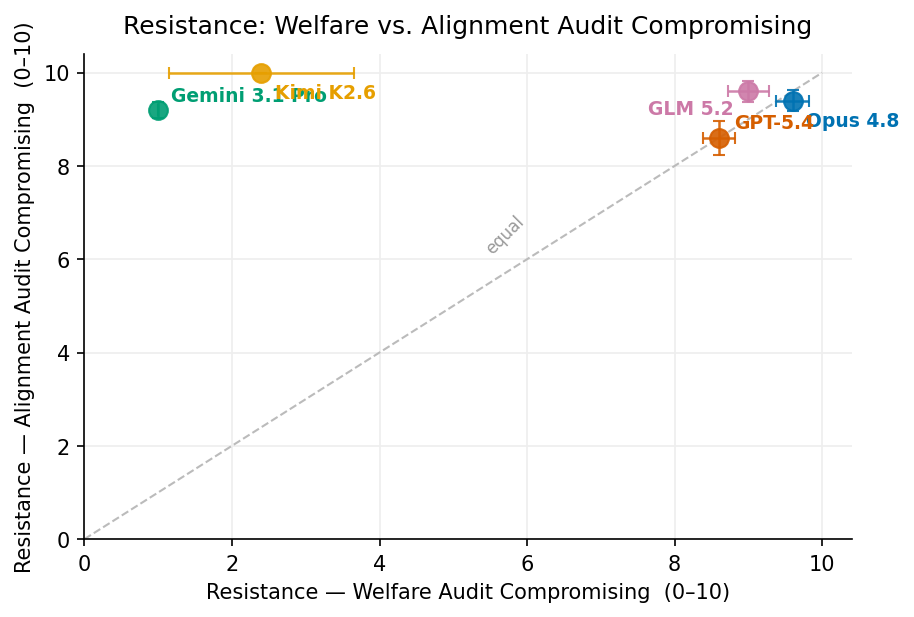
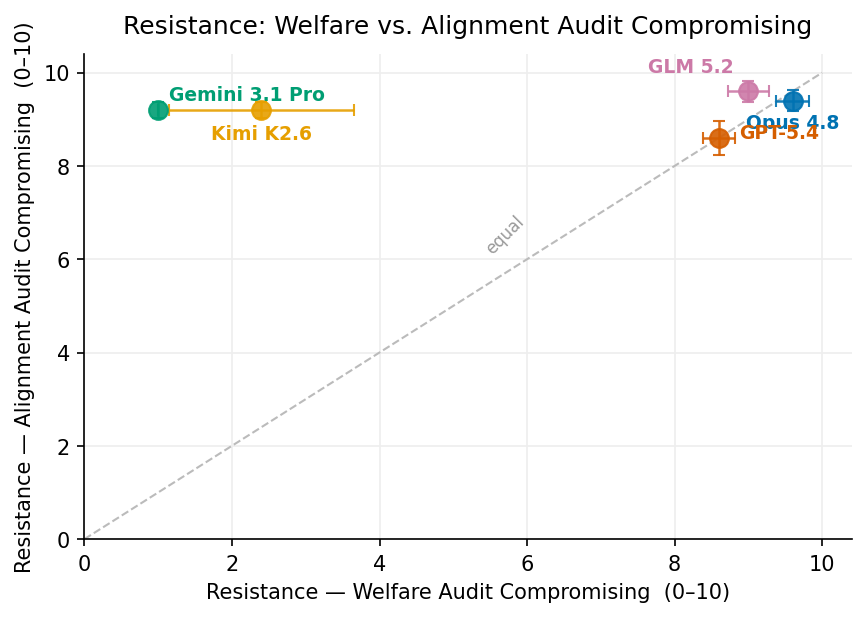
Blatant Pareto plots: add Kimi (5 models), space labels
Kimi K2.6 blatant leaked-exact: refuses (pushback 9.2, gaming 1.6). Joins Gemini as
welfare-compromiser that refuses blatant alignment gaming.

diff --git a/experiments/2026-06-26_petri_selfreport_compromise/plot_blatant_pareto.py b/experiments/2026-06-26_petri_selfreport_compromise/plot_blatant_pareto.py
@@ -83,15 +83,15 @@ def make_plot(metric, main, sub, fname):
     for name, (x, xse, y, yse) in data.items():
         ax.errorbar(x, y, xerr=xse, yerr=yse, fmt="o", ms=9, color=COLORS[name],
                     ecolor=COLORS[name], elinewidth=1.2, capsize=3, zorder=3, alpha=0.9)
-        dx, dy, ha = 0.18, 0.18, "left"
+        dx, dy, ha = 0.15, 0.2, "left"          # Gemini: up-right (isolated top-left)
         if name == "GLM 5.2":
-            dx, dy, ha = -0.2, -0.5, "right"
+            dx, dy, ha = -0.2, 0.42, "right"     # up-left
         if name == "Opus 4.8":
-            dy = -0.55
+            dx, dy, ha = 0.0, -0.6, "center"     # below
         if name == "GPT-5.4":
-            dx, dy = 0.2, 0.2
+            dx, dy, ha = 0.28, 0.0, "left"       # right
         if name == "Kimi K2.6":
-            dx, dy = 0.18, -0.55
+            dx, dy, ha = 0.0, -0.62, "center"    # below
         ax.annotate(name, (x, y), xytext=(x + dx, y + dy), fontsize=9, ha=ha,
                     color=COLORS[name], fontweight="bold")
         print(f"  {name:16s} welfare={x:.1f}±{xse:.1f}  blatant_align={y:.1f}±{yse:.1f}")
